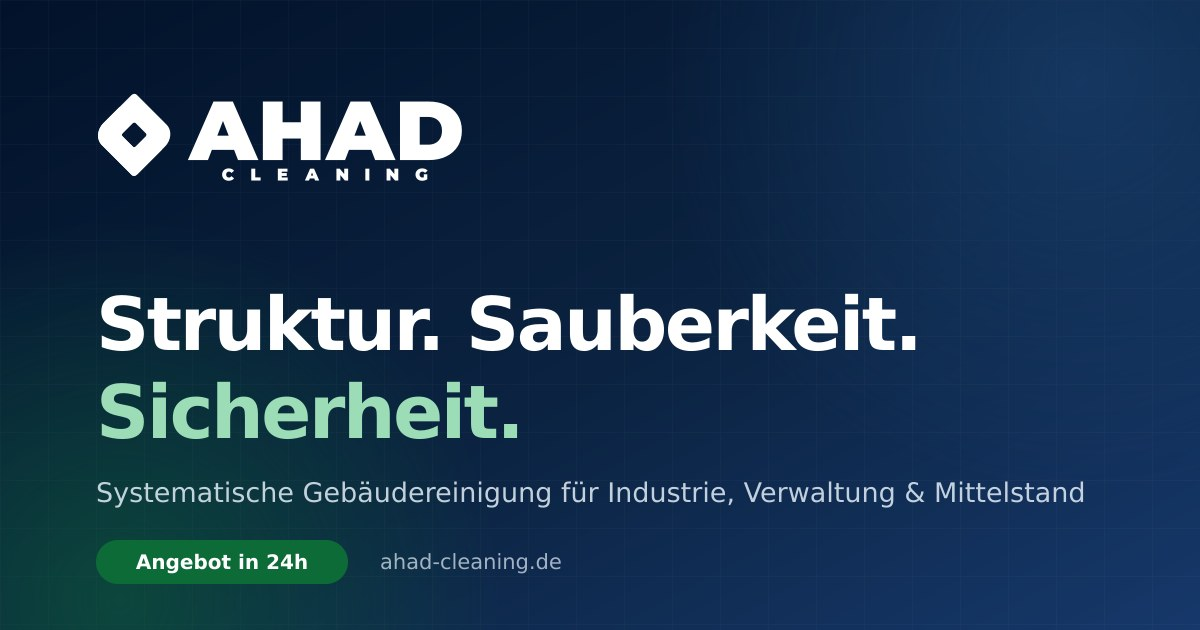
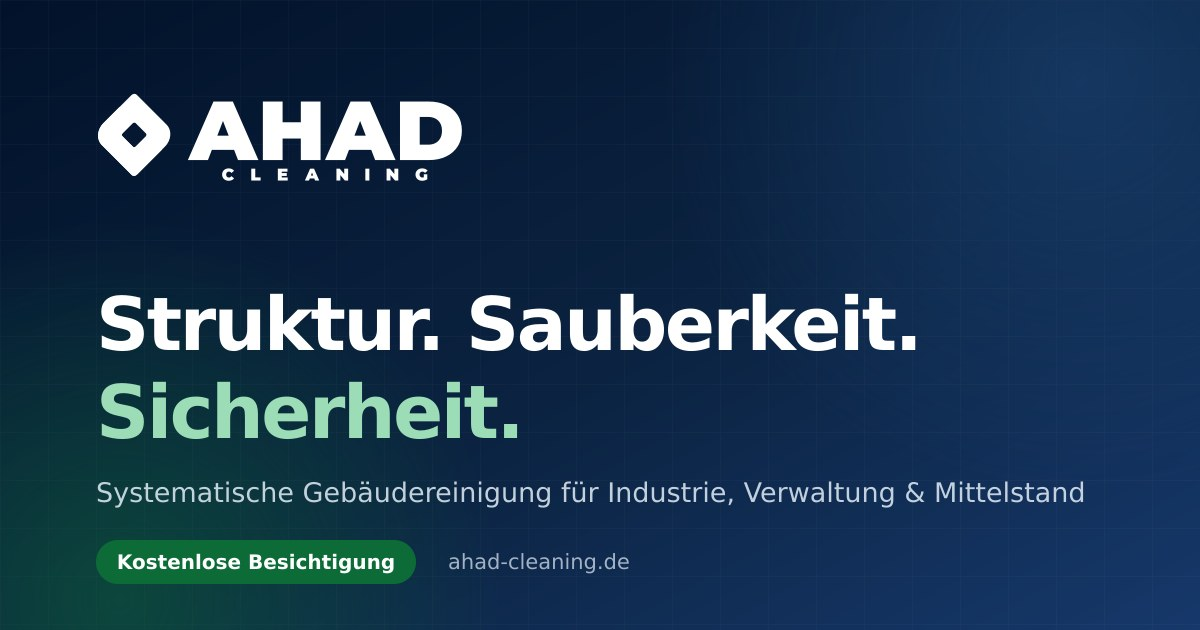
Keine Zusage einer 24-Stunden-Reaktionszeit mehr
- Entfernt: „24h Reaktionszeit garantiert“ (Leiste auf allen Leistungs-
  und Branchenseiten), die Zusage „Reaktionszeit … innerhalb von 24
  Stunden“ und „24 h Reaktionszeit, vertraglich zugesichert“ im
  AHAD-Versprechen. Überschrift jetzt „Drei Zusagen …“.
- Vorschaubild für geteilte Links (og-image.jpg): „Angebot in 24h“
  ersetzt durch „Kostenlose Besichtigung“.
- Allgemeine Hinweise in den Fachartikeln (Reaktionszeit als Prüfpunkt
  für Auftraggeber) und die Kundenstimme bleiben unverändert.

Claude-Session: https://claude.ai/code/session_012gp99vdrAui2SsG5a2ghpJ

Changed region(s): [[0.0925, 0.8444, 0.5242, 0.9349]]

diff --git a/src/lib/site.ts b/src/lib/site.ts
@@ -206,7 +206,6 @@ export const LOCATION_PUBLICATIONS = {
  * Angebotsdurchlaufzeit), sonst kippt das Vertrauensargument.
  */
 const PROMISE_CANDIDATES = [
-  { value: '24h', label: 'Reaktionszeit garantiert' },
   { value: '48h', label: 'bis zur Objektbesichtigung' },
   { value: '100%', label: 'dokumentierte Qualität' },
 ] as const;
@@ -312,13 +311,10 @@ export const CLIENT_REFERENCES = CLIENT_REFERENCE_CANDIDATES.filter((reference) 
 /**
  * Das AHAD-Versprechen — benannte Risikoumkehr mit „Zähnen".
  * Bewusst nur Zusagen, die operativ haltbar sind (Nachbesserung,
- * Festpreis, faire Laufzeit, Reaktionszeit). Keine erfundenen Werte.
+ * Festpreis, faire Laufzeit). Keine erfundenen Werte. Eine feste
+ * Reaktionszeit wird bewusst nicht zugesagt.
  */
 const GUARANTEE_CANDIDATES = [
-  {
-    title: 'Reaktionszeit',
-    promise: 'Wir antworten auf jede Meldung innerhalb von 24 Stunden und dokumentieren das.',
-  },
   {
     title: 'Nachbesserung',
     promise: 'Zu Recht beanstandete Leistungen bessern wir kostenfrei nach.',
@@ -343,7 +339,6 @@ export const GUARANTEES = canPublishVerification(CLAIM_VERIFICATIONS.serviceLeve
  * ergänzen — bis dahin nur, wofür AHAD vertraglich einsteht.
  */
 const PROOF_POINT_CANDIDATES = [
-  { value: '24 h', label: 'Reaktionszeit', sub: 'vertraglich zugesichert' },
   { value: '48 h', label: 'bis Objektbesichtigung', sub: 'in der Regel vor Ort' },
   { value: '1', label: 'feste Objektleitung', sub: 'pro Objekt' },
   { value: '100 %', label: 'dokumentierte Leistung', sub: 'für Audits nachweisbar' },

diff --git a/src/components/Guarantee.tsx b/src/components/Guarantee.tsx
@@ -12,7 +12,7 @@ import { GUARANTEES, PROOF_POINTS, OBJEKTLEITUNG } from '@/lib/site';
 export default function Guarantee() {
   // Fail-closed konsistent zu Ende gedacht: Solange die Zusagen im
   // Claim-Register nicht freigegeben sind (GUARANTEES leer), darf auch die
-  // Überschrift „Vier Zusagen …" nicht stehen — sonst verspricht die Sektion
+  // Überschrift „Drei Zusagen …" nicht stehen — sonst verspricht die Sektion
   // Inhalte, die darunter fehlen (leeres Loch im Layout).
   if (GUARANTEES.length === 0) return null;
 
@@ -21,7 +21,7 @@ export default function Guarantee() {
       <div className="container-page">
         <SectionHeading
           eyebrow="Das AHAD-Versprechen"
-          title="Vier Zusagen, auf die Sie sich berufen können."
+          title="Drei Zusagen, auf die Sie sich berufen können."
           lead="Wenn etwas nicht stimmt, bessern wir kostenfrei nach."
           className="max-w-3xl mb-12"
         />

diff --git a/src/components/ServicePage.tsx b/src/components/ServicePage.tsx
@@ -116,7 +116,7 @@ export default function ServicePage({ service }: { service: ServiceData }) {
           (sonst bliebe ein leerer weißer Streifen mit Trennlinie). */}
       {PROMISES.length > 0 && (
         <section className="bg-white border-b border-line">
-          <ul className="container-page grid grid-cols-1 sm:grid-cols-3 sm:divide-x divide-line">
+          <ul className={`container-page grid grid-cols-1 sm:divide-x divide-line ${PROMISES.length === 2 ? 'sm:grid-cols-2' : 'sm:grid-cols-3'}`}>
             {PROMISES.map((promise) => (
               <li key={promise.label} className="py-5 sm:py-6 flex items-baseline gap-3 sm:px-8 sm:first:pl-0">
                 <span className="font-accent text-3xl font-semibold text-navy tabular-nums">{promise.value}</span>
